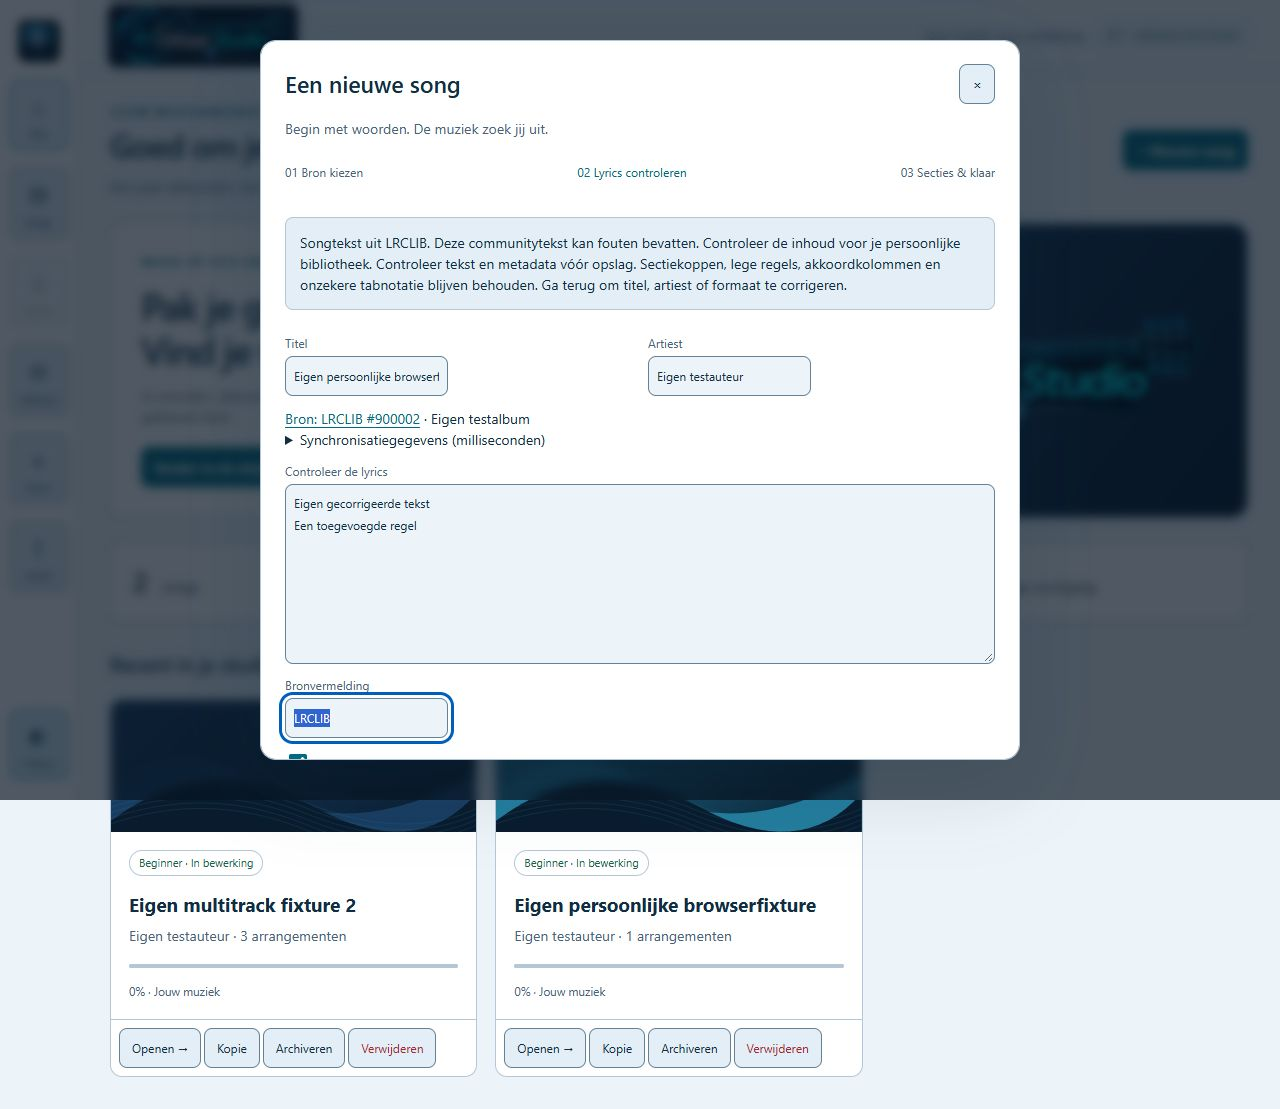
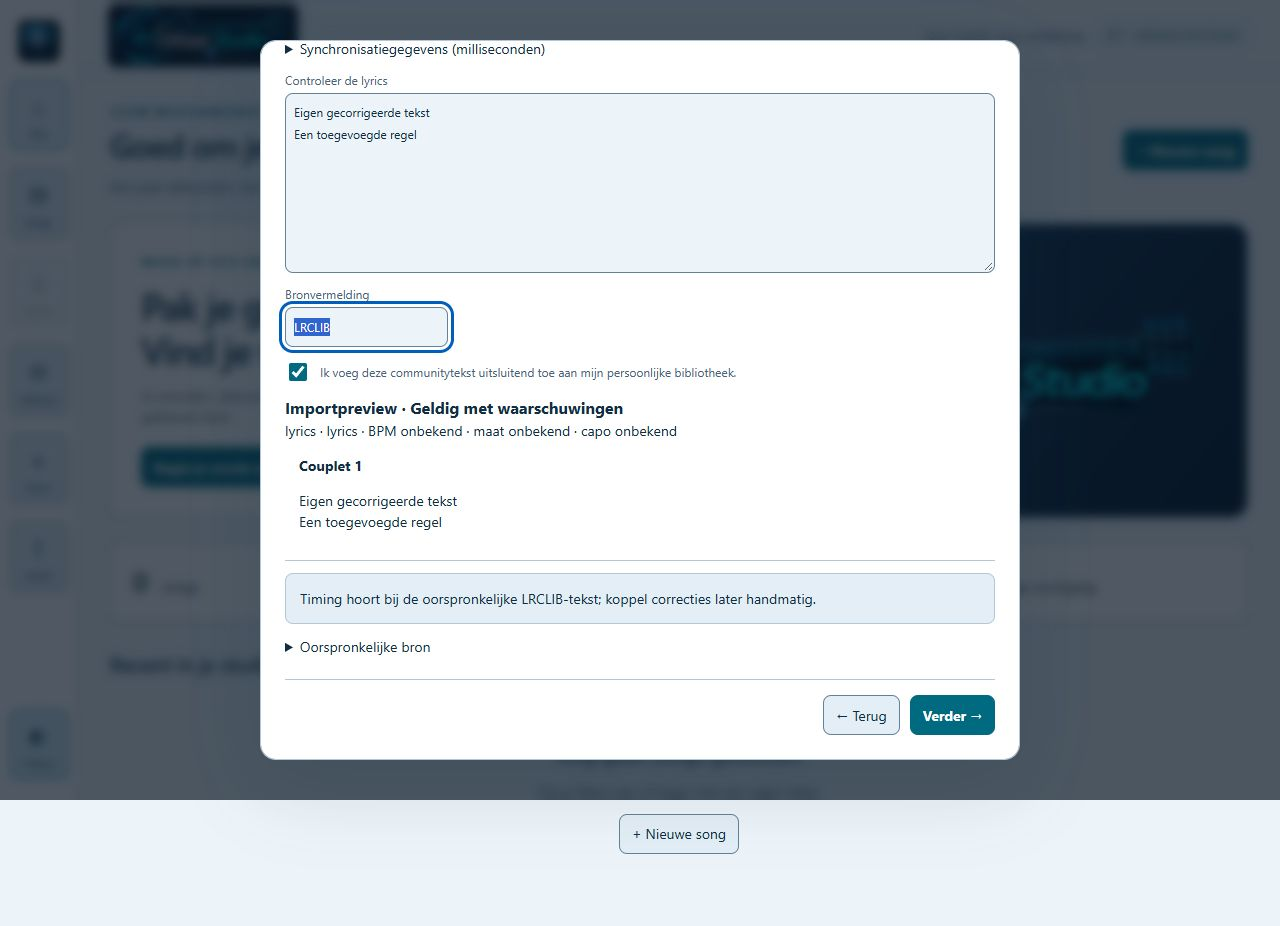
test: isolate personal import acceptance and preserve parser safeguards

diff --git a/apps/api/src/personal-import.test.ts b/apps/api/src/personal-import.test.ts
@@ -4,6 +4,8 @@ import {
   originalText,
 } from '../test-support/personal-lyrics-fixtures.js';
 import { createPersonalImportReceipts } from './personal-import-receipts.js';
+import { createLrclib } from './lrclib.js';
+import { personalRecord } from '../test-support/personal-lyrics-fixtures.js';
 import {
   personalLyricsDocument,
   canStoreImport,
@@ -110,5 +112,24 @@ describe('personal lyrics policy and verified source preservation', () => {
         storage: 'personal-only',
       }).success,
     ).toBe(false);
+    expect(
+      personalLyricsDocument(
+        detail.document,
+        'Album',
+        { text: 'e|---\nEigen tekst', title: 'Eigen' },
+        new Date().toISOString(),
+      ).status,
+    ).toBe('correction-required');
+    const record = personalRecord();
+    const metadata = await createLrclib({
+      gapMs: 0,
+      fetch: async () =>
+        Response.json({
+          ...record,
+          plainLyrics: '{title: Andere titel}\nEigen tekst',
+        }),
+    }).get(String(record.id));
+    expect(metadata.document.title).toBe(record.trackName);
+    expect(metadata.document.artist).toBe(record.artistName);
   });
 });

diff --git a/e2e/personal-lyrics.spec.ts b/e2e/personal-lyrics.spec.ts
@@ -10,10 +10,13 @@ import { legacyFixture } from '../packages/music-domain/test-support/multitrack-
 import { toMultitrack } from '../packages/music-domain/src/multitrack';
 const output =
   process.env.PERSONAL_IMPORT_EVIDENCE_DIR ?? 'test-results/lrclib-personal';
-const owner = 'personal-browser-' + randomUUID();
+let owner: string;
 let pool: pg.Pool, app: ReturnType<typeof buildApp>, apiBase: string;
 test.beforeAll(async () => {
   pool = new pg.Pool({ connectionString: readConfig().databaseUrl });
+});
+test.beforeEach(async () => {
+  owner = 'personal-browser-' + randomUUID();
   app = buildApp(
     () => pool.query('SELECT 1'),
     false,
@@ -23,9 +26,11 @@ test.beforeAll(async () => {
   );
   apiBase = await app.listen({ host: '127.0.0.1', port: 0 });
 });
-test.afterAll(async () => {
+test.afterEach(async () => {
   await pool.query('DELETE FROM studio_songs WHERE owner_id=$1', [owner]);
   await app.close();
+});
+test.afterAll(async () => {
   await pool.end();
 });
 async function proxy(page: Page, loseFirstImport = false) {

diff --git a/apps/api/src/personal-import.integration.test.ts b/apps/api/src/personal-import.integration.test.ts
@@ -192,6 +192,14 @@ describe('personal LRCLIB PostgreSQL transactions and existing contracts', () =>
         })
       ).statusCode,
     ).toBe(400);
+    expect(
+      (
+        await call('POST', '/api/v1/imports', {
+          ...body,
+          input: { ...body.input, text: 'e|---\nEigen tekst' },
+        })
+      ).statusCode,
+    ).toBe(400);
     const created = (await call('POST', '/api/v1/imports', body)).json();
     expect(
       (await call('GET', '/api/v1/songs', undefined, other)).json(),

diff --git a/apps/api/src/lrclib.ts b/apps/api/src/lrclib.ts
@@ -356,6 +356,8 @@ export function createLrclib(options: Options = {}): DiscoveryProvider {
       document.rawText =
         row.plainLyrics ||
         document.sections.map((s) => s.lines.join('\n')).join('\n\n');
+      document.title = row.trackName;
+      document.artist = row.artistName;
       document.status = document.warnings.length ? 'warnings' : 'valid';
       return {
         result: normalizeLrclib(row, 'v1'),

diff --git a/packages/music-domain/src/lrclib-personal-import.ts b/packages/music-domain/src/lrclib-personal-import.ts
@@ -67,6 +67,7 @@ export function personalLyricsDocument(
         : []),
     ]),
   ];
-  doc.status = doc.warnings.length ? 'warnings' : 'valid';
+  if (!['invalid', 'correction-required'].includes(doc.status))
+    doc.status = doc.warnings.length ? 'warnings' : 'valid';
   return ImportDocumentSchema.parse(doc);
 }

diff --git a/docs/sprints/lrclib-personal-import-report.md b/docs/sprints/lrclib-personal-import-report.md
@@ -18,8 +18,11 @@ No DDL is needed: optional metadata fits existing JSONB and studio_imports prove
 - Sixteen new axe scans (correction and destination at 1440×900, 1280×800, 1024×768, 390×844, dark/light) have zero violations. Screenshots contain only original test lyrics. Existing 32 browser scenarios retain all manual/ChordPro/ASCII, Workspace, multi-track compatibility, Practice/audio and design regressions.
 - [Actual restart proof](../qa/evidence/lrclib-personal/restart.json): PostgreSQL restart, new API process/signing key, new Chrome process/empty context, identical document/revision/history/source/corrections/timing and successful replay with the old committed receipt. Own generated fixture removed.
 - [Live LRCLIB smoke](../qa/evidence/lrclib-personal/live-smoke.json): actual v2 search, selected full record and signed personal preview all HTTP 200, no database write, no external lyrics retained in evidence. Network tests/CI use original deterministic fixtures rather than relying on provider uptime.
+- [Existing local data](../qa/evidence/lrclib-personal/existing-data-preserved.json): all original 15 historical documents retain their exact digest; the current 2 Songs/17 versions differ from the previous sprint only through two lastOpened revisions. Text, music and sources are unchanged. Feature tests use a separate database; a new private pre-update dump remains ignored.
 
 The browser fixture injects the real LRCLIB adapter at its external HTTP boundary into an isolated real Fastify/receipt/parser/PostgreSQL instance; it does not add a production backdoor. Its unique owner is removed afterward. Full suite requires a host DATABASE_URL (and, for test mode, a separate TEST_DATABASE_URL) selecting the same isolated database as the browser application. CI already provides the host database URL. Set PLAYWRIGHT_BASE_URL for a custom preview, PLAYWRIGHT_CHANNEL=chrome and PLAYWRIGHT_SCREENSHOT_DIR to an ignored directory. PERSONAL_IMPORT_EVIDENCE_DIR controls the new screenshots/scans.
+
+Each new browser case starts its own application/provider/owner fixture so independent scenarios do not accumulate against the real 30-per-minute discovery limit. Production limits remain unchanged. Final installed-Chrome regression uses a frozen production bundle with a stable API; development hot-reload runs are not counted. Personal corrections retain invalid/correction-required parser status instead of bypassing validation, and original provider title/artist remain authoritative even if source text contains metadata-like directives.
 
 ## Remaining boundaries
 
